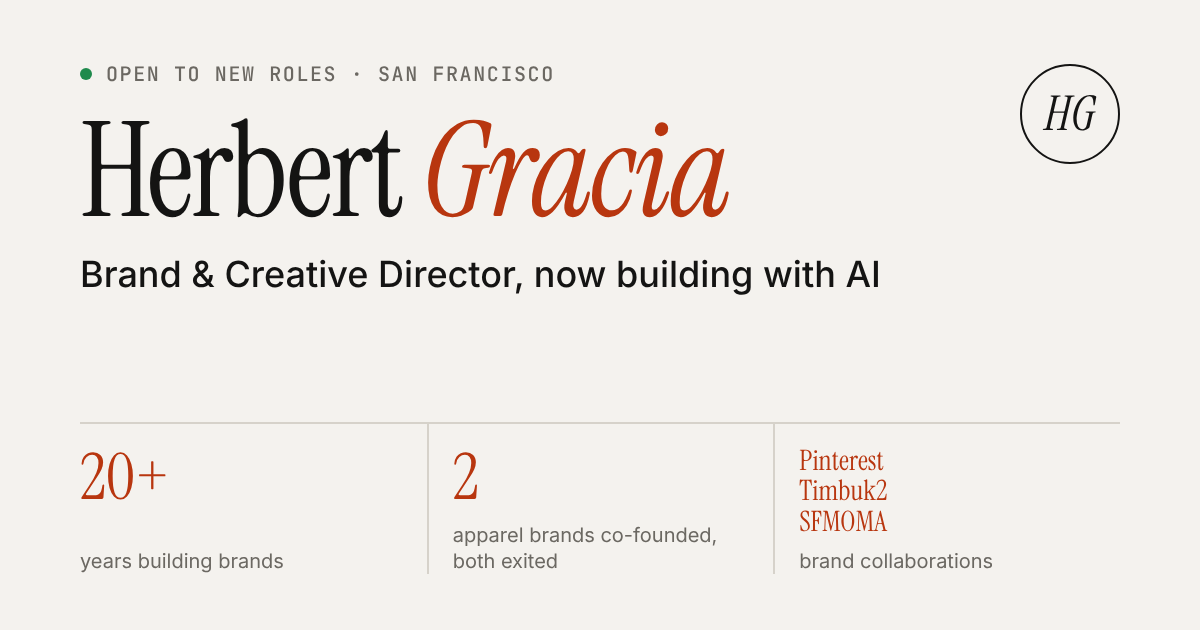
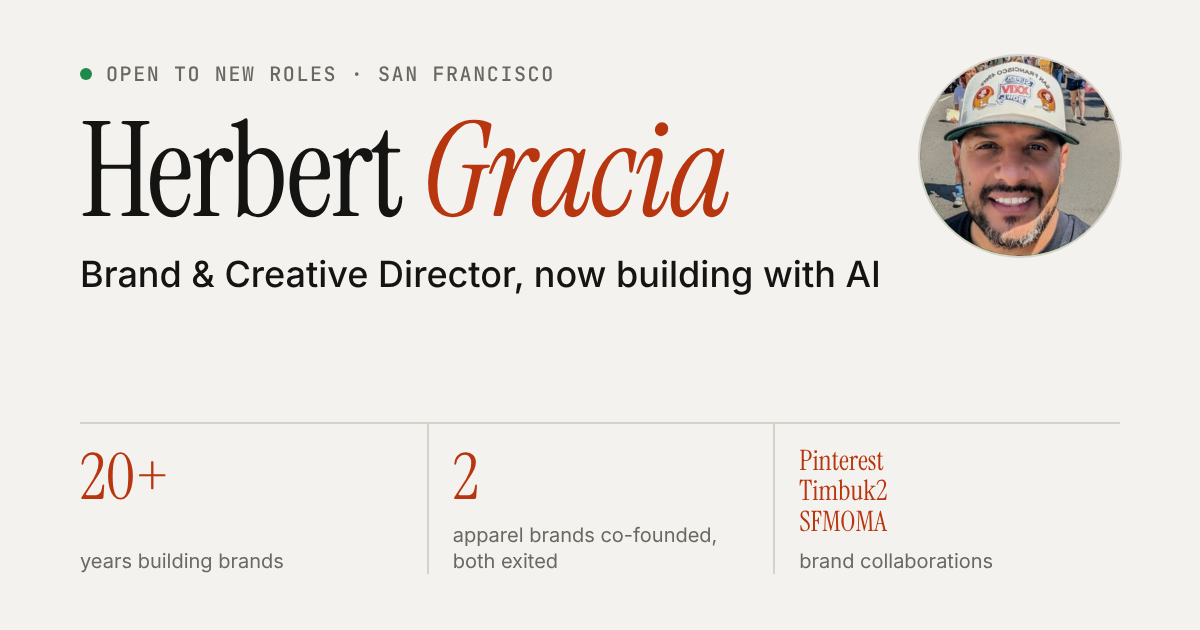
Add Herbert's portrait and FAZE / State of Flux photos
Round portrait next to the name (above it on phones) and in the
link-preview image; FAZE storefront on the FAZE and retail store cards;
State of Flux tiger caps and woven labels as a swipeable gallery.

Claude-Session: https://claude.ai/code/session_011N7u3nycXeaJGB7SYVkEQH

Changed region(s): [[0.74, 0.0603, 0.9558, 0.4222]]

diff --git a/public/styles.css b/public/styles.css
@@ -147,6 +147,15 @@ img, svg { display: block; }
   max-width: 56ch; margin: 12px 0 0; color: var(--muted); font-size: clamp(1rem, 1.6vw, 1.15rem);
 }
 .hero-cta { display: flex; flex-wrap: wrap; gap: 12px; margin-top: 32px; }
+/* Portrait to the right of the name (above it on phones). */
+.hero { display: grid; grid-template-columns: 1fr minmax(160px, 300px); column-gap: clamp(24px, 4vw, 64px); }
+.hero > :not(.hero-photo) { grid-column: 1; }
+.hero-photo {
+  grid-column: 2; grid-row: 1 / span 6; align-self: center;
+  width: 100%; height: auto; aspect-ratio: 1; border-radius: 50%; object-fit: cover;
+  box-shadow: 0 0 0 1px var(--line), 0 18px 40px rgb(0 0 0 / .12);
+}
+.hero-name { font-size: clamp(3.2rem, 8.6vw, 8.6rem); }
 
 /* ---------- Sections ---------- */
 .section {
@@ -333,6 +342,11 @@ img, svg { display: block; }
 .work-media { position: relative; background: var(--surface); }
 .work-media img { display: block; width: 100%; max-height: 70dvh; object-fit: contain; }
 .work-media.video { aspect-ratio: 16 / 9; }
+.work-media.gallery {
+  display: flex; gap: 8px; overflow-x: auto; scroll-snap-type: x mandatory; padding: 8px;
+  scrollbar-width: thin;
+}
+.work-media.gallery img { flex: 0 0 calc(100% - 48px); max-height: 62dvh; object-fit: cover; aspect-ratio: 1; border-radius: 10px; scroll-snap-align: center; }
 .work-media iframe { position: absolute; inset: 0; width: 100%; height: 100%; border: 0; }
 .work-media.work-cover { aspect-ratio: 16 / 5; border-radius: 0; padding: 18px 24px 22px; background-color: var(--cat); background-image: var(--pattern, none); }
 .work-media.work-cover .work-cover-meta { padding-right: 56px; } /* clear the close button */
@@ -460,6 +474,8 @@ img, svg { display: block; }
   #print-btn { display: none; }
   .topbar-contact { display: inline-flex; min-height: 40px; }
   .hero-name .line { display: block; }
+  .hero { grid-template-columns: 1fr; }
+  .hero-photo { grid-column: 1; grid-row: auto; width: 112px; margin-bottom: 20px; }
   .stats-wrap { grid-template-columns: 1fr; }
   .stats-label { padding: 18px 0 0; }
   .section { grid-template-columns: 1fr; }
@@ -491,7 +507,8 @@ img, svg { display: block; }
   @page { margin: 12mm 14mm; }
   body { font-size: 10.5pt; line-height: 1.4; }
   .topbar, .hero-cta, .contact-form, .contact-lead, .footer, .skip,
-  .eyebrow .dot, .work-filters, .work-more, .work-cover, .work-dialog, .job-more { display: none !important; }
+  .eyebrow .dot, .work-filters, .work-more, .work-cover, .work-dialog, .job-more, .hero-photo { display: none !important; }
+  .hero { display: block; }
   .reveal { opacity: 1 !important; transform: none !important; }
   .hero { padding: 0 0 6pt; }
   .eyebrow { margin-bottom: 6pt; }

diff --git a/public/app.js b/public/app.js
@@ -62,6 +62,10 @@ function render(d) {
     li.hidden = false;
   }
 
+  // Portrait next to the name.
+  const photo = $(".hero-photo");
+  if (d.photo?.src) { photo.src = d.photo.src; photo.alt = d.photo.alt || d.name; } else photo.remove();
+
   // Hero name: one line per word, last word in italic accent.
   const nameEl = $(".hero-name");
   nameEl.replaceChildren(...d.name.split(/\s+/).flatMap((w, i) => [i ? " " : null, h("span", { class: "line" }, w)]).filter(Boolean));
@@ -138,7 +142,7 @@ function categoryClass(cat) {
 // Covers repeat the card's text, so screen readers skip them.
 function workCover(item, { large = false, hue = 0 } = {}) {
   const video = videoInfo(item.video);
-  const src = item.image || video?.thumb;
+  const src = item.image || item.images?.[0]?.src || video?.thumb;
   const cover = h("div", { class: `work-cover ${categoryClass(item.category)} hue-${hue % 6}`, "aria-hidden": "true" });
   if (src) {
     cover.classList.add("has-image");
@@ -166,7 +170,7 @@ function renderWork(items) {
   const cards = items.map((item, i) => {
     // Poster covers already show the title, category, and year, so the text below
     // only repeats them for screen readers; image covers show them below as usual.
-    const poster = !item.image && !videoInfo(item.video);
+    const poster = !item.image && !item.images?.length && !videoInfo(item.video);
     return h("li", { class: poster ? "reveal is-poster" : "reveal", "data-category": item.category || "" },
       h("button", { class: "work-card", type: "button", "aria-haspopup": "dialog" },
         workCover(item, { hue: i }),
@@ -227,8 +231,13 @@ function openWork(item, index = 0) {
         src: video.embed, title: item.title,
         allow: "autoplay; encrypted-media; picture-in-picture; fullscreen", allowfullscreen: "",
       }));
-  } else if (item.image) {
-    media = h("div", { class: "work-media" }, h("img", { src: item.image, alt: item.imageAlt || item.title }));
+  } else if (item.images?.length > 1) {
+    // Several photos: a swipeable strip, one photo per view.
+    media = h("div", { class: "work-media gallery", tabindex: "0", role: "region", "aria-label": `${item.title} photos` },
+      item.images.map((img) => h("img", { src: img.src, alt: img.alt || item.title })));
+  } else if (item.image || item.images?.length) {
+    const img = item.images?.[0] || { src: item.image, alt: item.imageAlt };
+    media = h("div", { class: "work-media" }, h("img", { src: img.src, alt: img.alt || item.title }));
   } else {
     media = workCover(item, { large: true, hue: index });
     media.classList.add("work-media");

diff --git a/src/worker.js b/src/worker.js
@@ -1,7 +1,7 @@
 import content from "../public/content.json";
 
 // Shown at /api/status so you can tell which version is live.
-const VERSION = "2026-10-30.4";
+const VERSION = "2026-10-30.5";
 
 // Form limits: at most 5 submissions a minute per visitor (FORM_LIMITER in wrangler.toml).
 const LIMIT_MESSAGE = "Too many tries. Please wait a minute.";
@@ -172,7 +172,7 @@ function personJsonLd(base) {
     jobTitle: d.role.split(",")[0],
     description: d.tagline,
     url: `${base}/`,
-    image: `${base}/og.png`,
+    image: d.photo?.src ? `${base}${d.photo.src}` : `${base}/og.png`,
     email: d.links?.email ? `mailto:${d.links.email}` : undefined,
     address: city ? { "@type": "PostalAddress", addressLocality: city, addressRegion: region } : undefined,
     sameAs: [d.links?.linkedin].filter(Boolean),

diff --git a/public/index.html b/public/index.html
@@ -82,6 +82,7 @@
 
   <main id="main" tabindex="-1">
     <section class="hero" id="top">
+      <img class="hero-photo" src="/herbert.jpg" alt="Herbert Gracia" width="600" height="600" fetchpriority="high">
       <p class="eyebrow"><span class="dot" aria-hidden="true"></span><span data-bind="availability"></span> · <span data-bind="location"></span></p>
       <h1 class="hero-name" data-bind="name">Herbert Gracia</h1>
       <p class="hero-role" data-bind="role"></p>

diff --git a/README.md b/README.md
@@ -40,6 +40,8 @@ The **Selected work** section is the `work` list in `public/content.json`. Each 
 - **category:** one of `Design`, `Marketing`, `Video`, `Events`, `Storytelling`, `Collaborations`, `Technology`, `AI`.
 - **featured:** `true` to show it in the first six; the rest appear under "See all work".
 - **image:** put the picture in `public/work/` (JPG or PNG, about 1600px wide, under 500 KB).
+- **images:** for several photos, use a list like `[{"src": "/work/a.jpg", "alt": "..."}, ...]`. The first is the card's cover, and opening the card shows them all in a swipeable strip.
+- **Your portrait** is `public/herbert.jpg` (set by `photo` in `content.json`); it also appears in the link-preview image.
 - **video:** a YouTube or Vimeo link plays right on the page. YouTube links also give the card its picture automatically.
 - Everything except `title`, `category`, and `summary` is optional. Cards with no picture get a colored cover with the title.
 
